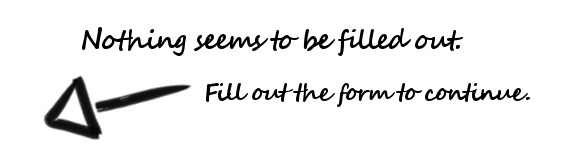
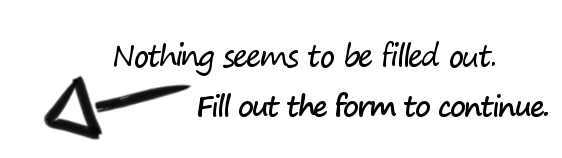
git-svn-id: http://vps6982.inmotionhosting.com/svn/lasi@563 49725315-0998-4498-bb4a-373bc1a52cb2

Changed region(s): [[0.121, 0.1772, 0.8772, 0.481], [0.3327, 0.5063, 0.9982, 0.7595]]

diff --git a/LASI_UserInterface/StartupScreen.xaml b/LASI_UserInterface/StartupScreen.xaml
@@ -21,7 +21,7 @@
  <Rectangle Fill="#FFEAEAEC" Margin="10,0" Stroke="#FF636366" ClipToBounds="True" StrokeThickness="3" Opacity="0.5" Height="262" VerticalAlignment="Top"  />
 
 
-            <TextBlock TextWrapping="Wrap" FontSize="27" Canvas.Left="159" FontFamily="Segoe Script" Text="Create New Project" Foreground="#FFC21300" FontWeight="Bold" Margin="34,28,322,0" Height="50" VerticalAlignment="Top" />
+            <TextBlock TextWrapping="Wrap" FontSize="27" Canvas.Left="159" FontFamily="Segoe Print" Text="Create New Project" Foreground="#FFC21300" FontWeight="Bold" Margin="34,28,322,0" Height="50" VerticalAlignment="Top" />
 
             <TextBlock Height="16" Canvas.Left="42" TextWrapping="Wrap" Text="Name:" Canvas.Top="154" TextAlignment="Left" LineHeight="6" Margin="30,117,577,0" VerticalAlignment="Top" FontFamily="Segoe UI Semilight" />
             <TextBox x:Name="EnteredProjectName" Canvas.Left="178" TextWrapping="Wrap" Canvas.Top="54" MaxLines="1" TextChanged="EnteredProjectName_TextChanged" Margin="109,117,404,0" Height="19" VerticalAlignment="Top" FontSize="12" UseLayoutRounding="True" />
@@ -54,7 +54,7 @@
             <Label x:Name="ProjCreateErrorLabel" Content="Label" Canvas.Left="304" Canvas.Top="181" Height="28" Width="178" Foreground="Red" Visibility="Hidden" Margin="60,176,423,96"/>
             <Image x:Name="NothingFilledImage" HorizontalAlignment="Left" Height="78" Margin="366,28,0,0" VerticalAlignment="Top" Width="263" Source="NothingFilledError.png" Visibility="Hidden" />
             <Button x:Name="CancelButton" Content="Cancel" Canvas.Left="455" Canvas.Top="224" RenderTransformOrigin="0.035,1.507" Click="CancelButton_Click" Margin="285,225,322,0" Height="27" VerticalAlignment="Top" Style="{DynamicResource cancelButton}" />
-            <Image x:Name="NoDocumentsImage" HorizontalAlignment="Left" Height="78" Margin="393,39,0,0" VerticalAlignment="Top" Width="242" Source="nodocumentserror.png" Visibility="Hidden"/>
+            <Image x:Name="NoDocumentsImage" HorizontalAlignment="Left" Height="89" Margin="375,28,0,0" VerticalAlignment="Top" Width="260" Source="nodocumentserror.png" Visibility="Hidden"/>
             <Image x:Name="threepaws" HorizontalAlignment="Left" Height="68" Margin="385,28,0,0" VerticalAlignment="Top" Width="238" Source="3paws.png" Visibility="Visible"/>
 
 
@@ -64,8 +64,8 @@
         <Canvas Background="#FFE8E8E8" Margin="0,0,0,3">
             <Button x:Name="closeButton" Content="X" HorizontalAlignment="Center" VerticalAlignment="Top" Width="35" Height="32" FontWeight="Bold" FontSize="20"  UseLayoutRounding="True" VerticalContentAlignment="Center" HorizontalContentAlignment="Center" Background="#FFDDDDDD" BorderThickness="1" TabIndex="2" IsHitTestVisible="True" AllowDrop="True" ScrollViewer.HorizontalScrollBarVisibility="Auto" ScrollViewer.VerticalScrollBarVisibility="Auto" IsManipulationEnabled="True" Click="closeButton_Click" FontFamily="Segoe Script" Canvas.Left="610" Canvas.Top="10" BorderBrush="#FF636366"/>
 
-                <Button x:Name="createProjectButton" Content="Create" Margin="487,102,0,117" FontSize="20" Foreground="Black" Click="createProjectButton_Click" HorizontalAlignment="Left" Width="106" FontFamily="Segoe Script" RenderTransformOrigin="1,0" Background="#FFDDDDDD" BorderBrush="#FF636366" Style="{DynamicResource CreateButton}"/>
-            <Button x:Name="loadProjectButton" Content="Load " Margin="487,179,0,40" FontSize="20" HorizontalAlignment="Left" Width="106" FontFamily="Segoe Script" RenderTransformOrigin="0.5,0.5" Background="#FFDDDDDD" BorderBrush="#FF636366" Style="{DynamicResource loadButton}"/>
+                <Button x:Name="createProjectButton" Content="Create" Margin="487,102,0,117" FontSize="20" Foreground="Black" Click="createProjectButton_Click" HorizontalAlignment="Left" Width="106" FontFamily="Segoe Print" RenderTransformOrigin="1,0" Background="#FFDDDDDD" BorderBrush="#FF636366" Style="{DynamicResource CreateButton}"/>
+            <Button x:Name="loadProjectButton" Content="Load " Margin="487,179,0,40" FontSize="20" HorizontalAlignment="Left" Width="106" FontFamily="Segoe Print" RenderTransformOrigin="0.5,0.5" Background="#FFDDDDDD" BorderBrush="#FF636366" Style="{DynamicResource loadButton}"/>
                 <Image Height="250" Canvas.Left="5" Width="482" Source="lasisplash1.png" Stretch="UniformToFill"/>
 
         </Canvas>

diff --git a/LASI_UserInterface/ResultsScreen.xaml b/LASI_UserInterface/ResultsScreen.xaml
@@ -23,8 +23,6 @@
             <MenuItem Header="Build" HorizontalAlignment="Left" />
             <MenuItem Header="Help" HorizontalAlignment="Left" />
             <Separator HorizontalAlignment="Stretch" />
-            <TextBox x:Name="SearchTextBox" HorizontalAlignment="Right" FontSize="10" Height="20" TextWrapping="Wrap" Width="154" UndoLimit="200" AllowDrop="False" SelectionOpacity="0" Padding="1,1,1,2" />
-            <Button x:Name="SearchButton" Content="Search" VerticalAlignment="Top" HorizontalAlignment="Right" />
         </Menu>
         <Canvas Background="#FFF6F6F6" Margin="0,51,0,0">
             <Grid Height="433" Canvas.Top="10" Width="159"/>
@@ -39,7 +37,7 @@
         </Canvas>
         
         <Grid Margin="0,0,0,0" >
-            <Canvas Background="#FFE5E5E5" OpacityMask="#FF5A5A62" Margin="8,68,644,33">
+            <Canvas Background="#FFE5E5E5" OpacityMask="#FF5A5A62" Margin="8,68,0,33" HorizontalAlignment="Left" Width="140">
                 <Button x:Name="exportButton" Content="Export" HorizontalAlignment="Left" VerticalAlignment="Top" Width="35" Canvas.Left="53" Canvas.Top="122" Click="exportButton_Click" Height="35" FontSize="9" Background="#FFEBEBEB"/>
                 <Button x:Name="printButton" Height="35" Canvas.Left="11" Canvas.Top="122" Width="35" Style="{DynamicResource ControlStyle1}" Click="printButton_Click_1" />
                 <Button x:Name="changeToColumnChartButton" Height="35" Canvas.Left="11" Canvas.Top="40" Width="35" Style="{DynamicResource ChangeChartTypeColumn}" MaxWidth="50" MaxHeight="50" Margin="0" Padding="10,1,1,1" BorderThickness="0.5,0.5,0.55,0.5" ClipToBounds="True" Background="#FFDDDDDD" ClickMode="Press">

diff --git a/LASI_UserInterface/Dialogs/DialogToProcedeToResults.xaml b/LASI_UserInterface/Dialogs/DialogToProcedeToResults.xaml
@@ -1,11 +1,10 @@
 <Window x:Name="AnalysisCompleteDialog" x:Class="LASI.UserInterface.Dialogs.DialogToProcedeToResults"
         xmlns="http://schemas.microsoft.com/winfx/2006/xaml/presentation"
         xmlns:x="http://schemas.microsoft.com/winfx/2006/xaml"
-        Title="Analysis Complete" Height="305" Width="481" WindowStyle="None">
-    <Grid Height="179" VerticalAlignment="Top">
-        <Label Content="&#x9;Analysis Has Been Completed&#xD;&#xA;&#xD;&#xA;            Click Proceed to View the Results" HorizontalAlignment="Left" Margin="10,24,0,91" Width="272"/>
-        <CheckBox Content="Automatically Export Results" HorizontalAlignment="Left" Margin="64,103,0,0" VerticalAlignment="Top" Height="18" Width="170" ToolTip="You will be given the option again before closing"/>
-        <Button Name="ContinueButton" Content="Continue" HorizontalAlignment="Left" Margin="104,135,0,22" Width="75" Click="ContinueButton_Click"/>
+        Title="Analysis Complete" Height="193" Width="284" WindowStyle="ToolWindow">
+    <Grid>
+        <Label Content="&#x9;Results Have Been Exported&#xA;&#xA;           " Margin="10,24,10,91"/>
+        <Button Name="OkButton" Content="Ok" HorizontalAlignment="Left" Margin="104,93,0,0" Width="75" Click="OkButton_Click" Height="22" VerticalAlignment="Top"/>
 
     </Grid>
 </Window>

diff --git a/LASI_UserInterface/ProjectPreviewScreen.xaml b/LASI_UserInterface/ProjectPreviewScreen.xaml
@@ -44,8 +44,6 @@
             <MenuItem Header="Build"/>
             <MenuItem Header="Help"/>
             <Separator/>
-            <TextBox Height="20" HorizontalAlignment ="Right" TextWrapping="Wrap" Width="154" UndoLimit="200" AllowDrop="False" SelectionOpacity="0" Padding="1,1,1,2"/>
-            <Button Content="Search" VerticalAlignment="Top" HorizontalAlignment="Right"/>
         </Menu>
     </Grid>
 </Window>

diff --git a/LASI_UserInterface/ResultsScreen.xaml.cs b/LASI_UserInterface/ResultsScreen.xaml.cs
@@ -21,6 +21,7 @@ using LASI.Algorithm.Binding;
 using LASI.Utilities.TypedSwitch;
 using LASI.Algorithm.Analysis;
 using LASI.Utilities;
+using LASI.UserInterface.Dialogs;
 
 namespace LASI.UserInterface
 {
@@ -455,6 +456,8 @@ namespace LASI.UserInterface
                                                      select R, doc.FileName, FileSystem.Serialization.XML.DegreeOfOutput.Comprehensive);
                 }
             }
+            var exportDialog = new DialogToProcedeToResults();
+         exportDialog.ShowDialog();
         }
 
 

diff --git a/LASI_UserInterface/Dialogs/DialogToProcedeToResults.xaml.cs b/LASI_UserInterface/Dialogs/DialogToProcedeToResults.xaml.cs
@@ -23,11 +23,9 @@ namespace LASI.UserInterface.Dialogs
             InitializeComponent();
         }
 
-        private void ContinueButton_Click(object sender, RoutedEventArgs e) {
+        private void OkButton_Click(object sender, RoutedEventArgs e) {
             this.Close();
-            if (this.Owner == WindowManager.InProgressScreen) {
-                WindowManager.ResultsScreen.AutoExport = true;
-            }
+            
         }
     }
 }
